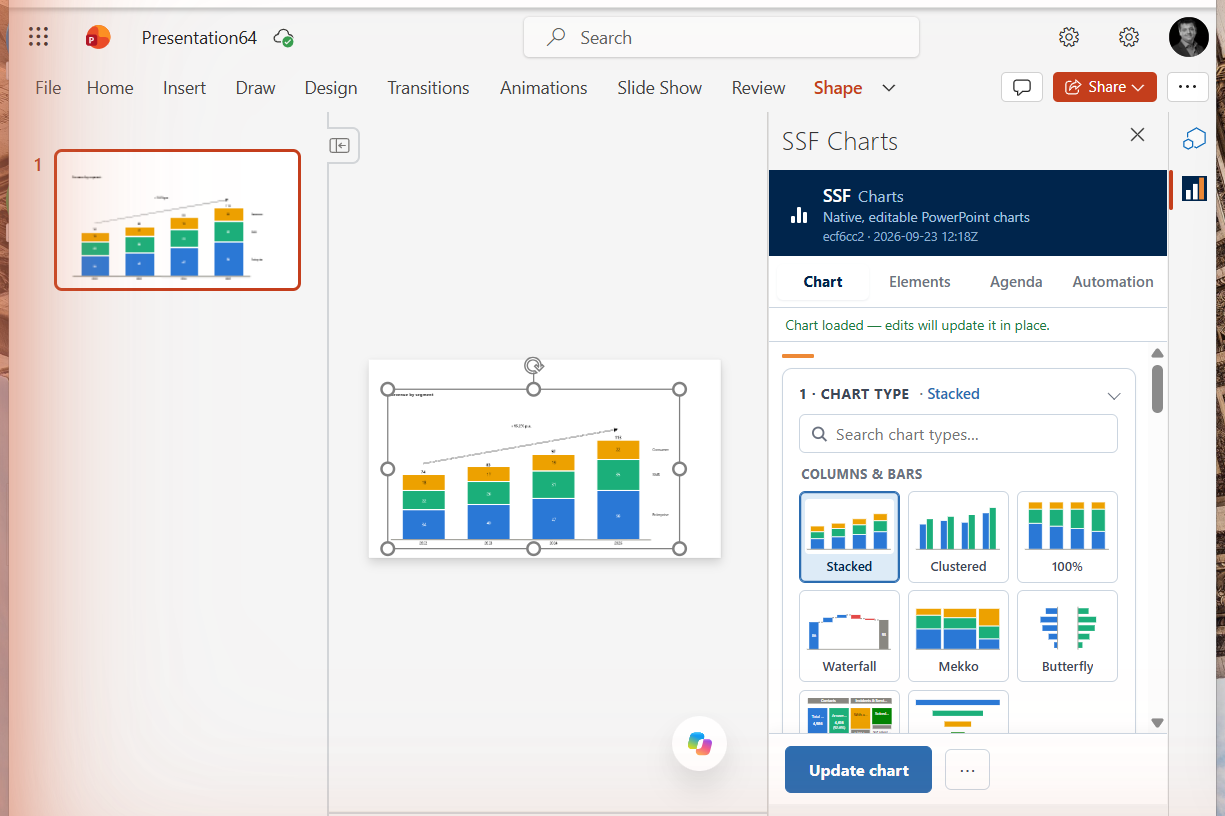
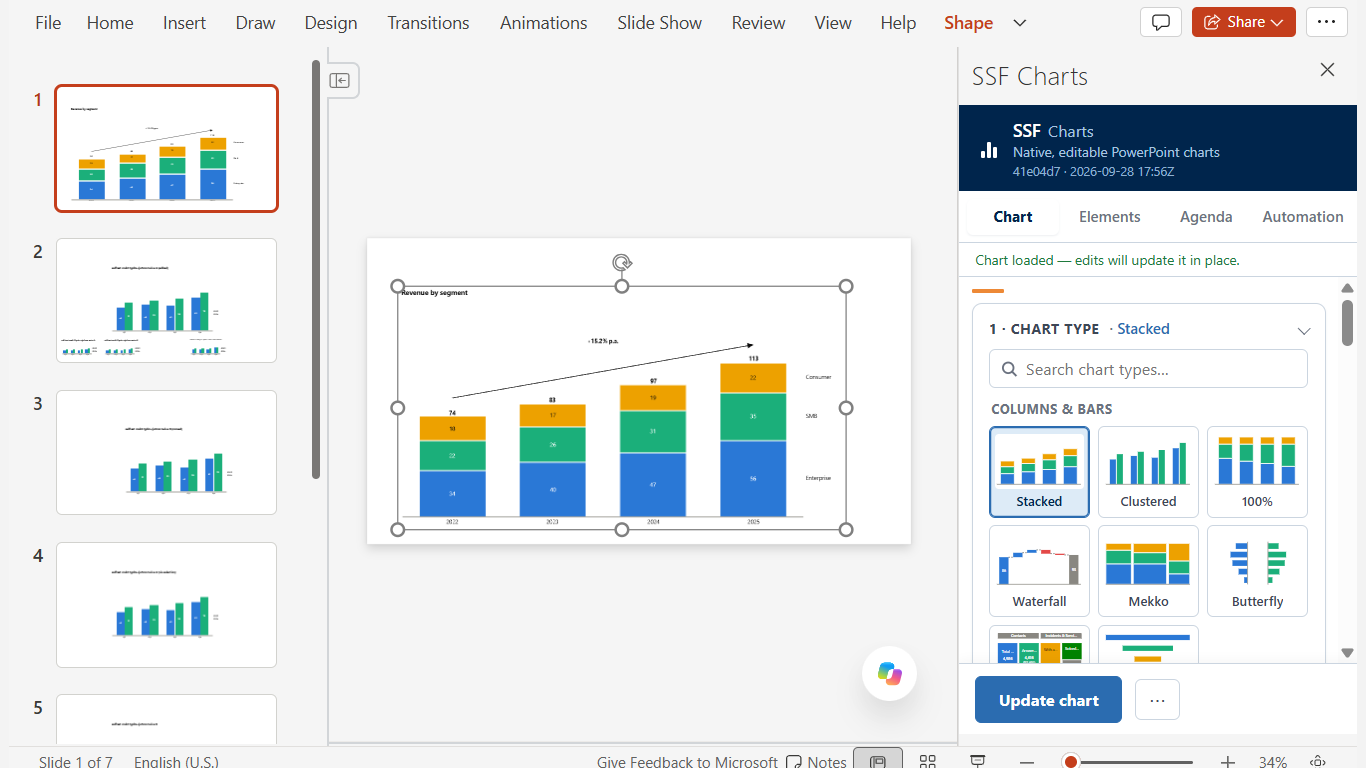
Item 22 closed: three listing images at 1366x768, and the two owner calls were never real
The pane-and-slide frame is re-taken at AppSource's exact size. All three images
in docs/store-shots/ are now 1366x768.

THE TWO DECISIONS THIS ITEM WAS HOLDING FOR THE OWNER DID NOT EXIST. The last
note left him a profile photo top-right and a deck named "Presentation64".
Cropping the frame to start at the RIBBON row removes the Office header, and
both of them live there. Nothing composited, nothing retouched, and no
disclaimer cropped -- the rule on whose statement a banner is stands unchanged.

TWO THINGS THE RE-TAKE NEEDED, neither obvious. The window had to be sized so
the CROPPED region is 1366x768, not the window, which means solving for the
chrome height first. And a screen grab was no longer possible: at 1366 wide on
an 1820 screen the neighbouring window covers the right 120px -- which is the
task pane -- and there is nowhere to move to. `PrintWindow` with
PW_RENDERFULLCONTENT asks the window to render ITSELF, so occlusion stops
mattering. Without that flag a browser returns blank white, so the capture
samples for ink rather than writing a white PNG.

22 IS THE FIRST OF THESE FOUR TO CLOSE BY WORK RATHER THAN BY A DECISION. It sat
as "his screenshots" for two weeks on a reason that was wrong twice over: first
that the slide could not be captured (it can, through Office.js), then that the
pane could not be (it can, headed and photographed at the OS level). What
finally closed it needed one sign-in from him and nothing else. An item parked
[…]

diff --git a/test/backlog-open-count.test.ts b/test/backlog-open-count.test.ts
@@ -111,7 +111,20 @@ describe("the backlog's open count", () => {
     // It was never a product defect: the probe that found it caused it, by
     // polling the slide through the draw. Recorded because an item that opens
     // and closes inside a day is exactly the kind this list has lost before.
-    expect(ids, "section 1's real list").toEqual(["5", "21", "22", "23"]);
+    //
+    // 22 CLOSED 2026-09-28, and it is the first of these to close by WORK
+    // rather than by a decision. It sat as "his screenshots" for two weeks on a
+    // reason that was wrong twice over — first that the slide could not be
+    // captured, then that the pane could not be — and in the end needed one
+    // sign-in from him and nothing else. The two calls it was holding for him,
+    // a profile photo and a deck name, were never real: both live in the Office
+    // header, which the crop removes. An item parked here as owner-gated is
+    // worth re-reading occasionally; this one had stopped being.
+    //
+    // It leaves the list by wearing "CLOSED" rather than by deletion, which the
+    // `[a-z]` in `entry` is what makes work — an entry counts as open only
+    // while its description still reads as one.
+    expect(ids, "section 1's real list").toEqual(["5", "21", "23"]);
     expect(
       openIds([
         "## 1. Open",

diff --git a/docs/BACKLOG.md b/docs/BACKLOG.md
@@ -347,7 +347,10 @@ evening, on a deck created for it rather than a harness one. 3 closed on
 2026-09-06: its remainder was answered NO, and the budget it argued about was
 raised 90 -> 105 on the first evidence that ever bore on it. 24 was opened on
 2026-09-17 and CLOSED on 2026-09-18 with no product work, because it was never a
-product defect — see the note below. FOUR are open.**
+product defect — see the note below. **22 closed on 2026-09-28**, when the two
+decisions it was waiting on turned out not to need making: cropping the frame to
+the ribbon row removes the Office header, and with it both the deck name and the
+owner's profile photo. THREE are open, counted off the list.**
 
 > The count here read "six" against a list of four, and then "five" against a
 > list of three. Stale both times, and this file states its own tie-breaker:
@@ -380,6 +383,16 @@ product defect — see the note below. FOUR are open.**
 > and none of it moves 5, 21, 22 or 23 — every one of those still waits on his
 > identity, his Mac, his screenshots or his submission. **FOUR are open, counted
 > off the list on 2026-09-17.**
+>
+> **AND 22 IS NOW CLOSED, 2026-09-28 — by work, not by a decision.** It sat here
+> as "his screenshots" for two weeks on a reason that was wrong twice over:
+> first that the slide could not be captured (it can, through Office.js), then
+> that the pane could not be (it can, in a headed window photographed at the OS
+> level). What finally closed it needed one sign-in from him and nothing else,
+> and the two calls the last note left him — his profile photo and a deck named
+> "Presentation64" — were never real: both live in the Office header, which the
+> crop removes. **THREE are open.** A thing parked here as owner-gated is worth
+> re-reading occasionally; this one had stopped being.
 >
 > **FIVE FOR ONE DAY, AND BACK TO FOUR.** Item 24 was opened on 2026-09-17 —
 > "the `table` element does not draw on this host", measured five times, the
@@ -460,7 +473,7 @@ product defect — see the note below. FOUR are open.**
        WebKit, Mac's engine family, 148/148 identical to Node — which kills the
        parse-and-format class of failure and says nothing about Office.js.
 
-    22  the store screenshots, and the choice of how to make them
+    22  CLOSED 2026-09-28 — the store screenshots, and the choice of how to make them
        — 1-5 at 1366x768. Added to this list on 2026-09-13 saying they "need a
        person at a real PowerPoint window", repeating the reason
        `docs/STORE-LISTING.md` had carried since July. HALF OF THAT REASON IS
@@ -500,12 +513,24 @@ product defect — see the note below. FOUR are open.**
        task pane and slide with a selected chart, one real window, nothing
        composited. It also makes route 3 moot rather than answering it. The
        owner signed in once (his alone) and that was the only thing it needed.
-       WHAT IS ACTUALLY LEFT OF 22, and it is small: the frame is 1225x816 and
-       AppSource wants 1366x768, so it needs re-taking at that size rather than
-       upscaling; and it carries the owner's own PROFILE PHOTO top-right plus a
-       deck named "Presentation64". The photo on a public listing is his call,
-       not a defect. The two slide images (01, 02) are already 1366x768 and
-       need nothing.
+       CLOSED 2026-09-28. Re-taken at 1366x768, and the two decisions the
+       previous note left him never had to be made: cropping the frame to start
+       at the RIBBON row drops the Office header, which is where both the deck
+       name and his profile photo live. What the image shows is the ribbon, the
+       slide with a selected chart, and the full pane reading "Chart loaded --
+       edits will update it in place".
+       TWO THINGS THE RE-TAKE NEEDED, neither of them obvious. The window had to
+       be sized so the CROPPED region is 1366x768 rather than the window itself,
+       which means solving for the chrome height first. And a screen grab was no
+       longer possible: at 1366 wide on an 1820 screen the neighbouring window
+       covers the right ~120px, which is the task pane, and there is nowhere to
+       move to. `PrintWindow` with PW_RENDERFULLCONTENT asks the window to render
+       ITSELF, so occlusion stops mattering — the flag is what makes it work on
+       GPU-composited Chrome, and without it a browser returns blank white, so
+       the capture script checks for ink rather than saving a white PNG.
+       All three listing images are now 1366x768:
+       `01-waterfall.png`, `02-stacked.png`, `03-pane-and-slide.png`.
+       Route 3 was never taken and is now moot rather than declined.
 
     23  the AppSource submission itself
        — everything above feeds it and none of it is the act. Partner Center
@@ -515,7 +540,7 @@ product defect — see the note below. FOUR are open.**
        `manifest-excel-prod.xml` adds `src/excel/excel.html`, which is a
        shipping entry point nobody had counted. Corrected 2026-09-17 by
        counting both files rather than re-reading the sentence.
-       What is left is 21, 22, and a decision to press submit — all his.
+       What is left is 21 and a decision to press submit — 22 closed 2026-09-28.
 
 
 **The 4:3 arm is no longer on this list, and was never on it as a numbered

diff --git a/docs/STORE-LISTING.md b/docs/STORE-LISTING.md
@@ -168,10 +168,31 @@ consulting charts, CAGR, editable charts, data visualization
 - ✅ **Store logo** 300×300 PNG — `assets/store-logo-300.png`, generated by
   `npm run icons` from the same geometry and palette as the ribbon icons, so the
   listing image cannot drift from the mark it is meant to show.
-- 🟡 **1–5 screenshots** 1366×768 of the pane + an inserted chart — **two slide
-  images exist as of 2026-09-23 (`docs/store-shots/`); the pane image does
-  not**, and the reason below was half wrong twice, corrected 2026-09-13 and
-  again 2026-09-23.
+- ✅ **1–5 screenshots** 1366×768 — **DONE 2026-09-28. Three images, all at
+  1366×768, in `docs/store-shots/`:**
+
+      01-waterfall.png        a waterfall on the slide, drawn by PowerPoint
+      02-stacked.png          a stacked column chart, likewise
+      03-pane-and-slide.png   ribbon, task pane and slide in ONE real window
+
+  The third is the frame this file spent three months calling unavailable. It
+  needed a headed browser, a window sized so the CROPPED region is 1366×768
+  rather than the window itself, and `PrintWindow` with PW_RENDERFULLCONTENT —
+  a screen grab could not be used, because at 1366 wide on an 1820 screen the
+  neighbouring window covers the right 120px, which is the task pane, and there
+  is nowhere to move to. Without that flag a browser renders blank white, so
+  the capture checks for ink rather than writing a white PNG.
+
+  **The two things this file left as the owner's calls were never real.**
+  Cropping to start at the RIBBON row removes the Office header, and both the
+  deck name and his profile photo live there. Nothing was composited, nothing
+  retouched, and no disclaimer was cropped — see the rule below on whose
+  statement a banner is.
+
+  The reason this took three attempts is worth keeping: it was half wrong
+  twice, corrected 2026-09-13 ("the slide cannot be captured" — it can, through
+  Office.js) and again 2026-09-23 ("the pane cannot be" — it can, headed and
+  photographed at the OS level).
 
   What is true: the agent drives PowerPoint through a headless browser, and the
   slide-editing canvas does not composite there. Every browser capture shows the
